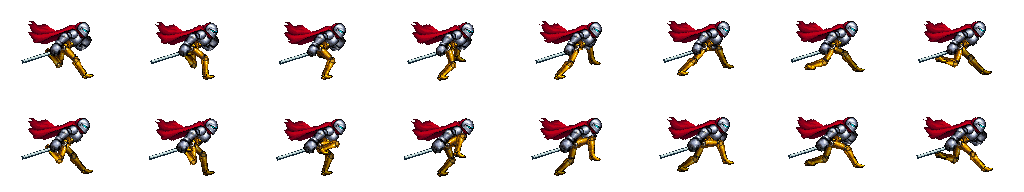
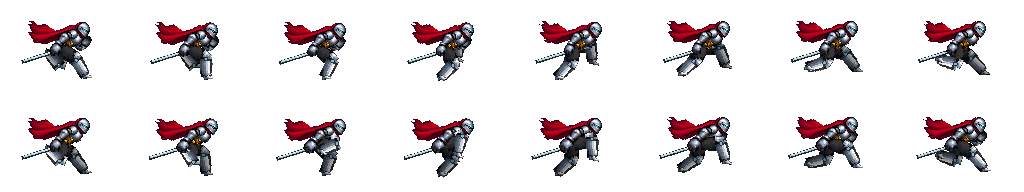
fix: share silver knight leg armor between idle and locomotion

diff --git a/art/characters/grounded-run-v001/sources/process.py b/art/characters/grounded-run-v001/sources/process.py
@@ -15,6 +15,15 @@ body=part([(294,91),(322,52),(369,46),(389,75),(396,114),(365,137),(353,166),(32
 thigh=part([(263,183),(285,185),(323,210),(347,227),(348,246),(329,252),(309,235),(269,216),(253,206)])
 shin=part([(325,242),(348,240),(357,267),(382,307),(374,323),(360,319),(340,287),(321,264)])
 boot=part([(361,310),(377,304),(386,308),(414,310),(427,309),(426,321),(402,332),(373,339),(357,329)])
+# Use the established silver idle armour for every locomotion leg, including idle.
+armor=Image.open(ROOT/'art/characters/prosthetic-v001/knight-idle.png').convert('RGBA').crop((0,0,128,96)).resize((512,384),Image.Resampling.NEAREST)
+def armor_part(points):
+ mask=Image.new('L',armor.size);ImageDraw.Draw(mask).polygon([(x*4,y*4) for x,y in points],fill=255)
+ piece=armor.copy();piece.putalpha(Image.fromarray(np.minimum(np.array(mask),np.array(armor.getchannel('A')))))
+ return piece
+thigh=armor_part([(69,56),(74,56),(76,62),(76,66),(70,66),(69,62)])
+shin=armor_part([(70,65),(76,65),(76,70),(75,75),(70,75),(70,70)])
+boot=armor_part([(70,74),(75,74),(77,76),(80,77),(80,79),(70,79)])
 upper=part([(253,130),(274,135),(279,149),(263,167),(253,182),(236,176),(233,167),(242,143)])
 fore=part([(236,169),(255,178),(244,200),(241,208),(226,212),(217,202),(220,188)])
 # Render transformed original armor cutouts into one offline atlas. No runtime rig or nodes.
@@ -38,27 +47,30 @@ def leg(im,hip,foot,front):
   k=(L1+L2-.1)/dist;foot=(hip[0]+dx*k,hip[1]+dy*k);dx*=k;dy*=k;dist*=k
  along=(L1*L1-L2*L2+dist*dist)/(2*dist);h=math.sqrt(max(0,L1*L1-along*along));knee=(hip[0]+dx*along/dist+dy*h/dist,hip[1]+dy*along/dist-dx*h/dist)
  shade=1 if front else .65
- place(im,thigh,(274,198),(337,238),hip,knee,shade)
- place(im,shin,(337,250),(371,314),knee,foot,shade)
+ place(im,thigh,(72*4,57*4),(73*4,65*4),hip,knee,shade)
+ place(im,shin,(73*4,66*4),(72.5*4,75*4),knee,foot,shade)
  # Heel follows the shin through the airborne recovery; sole remains flat on contact.
  lift=max(0,76-foot[1]);toe=(foot[0]+6,foot[1]+min(3,lift*.16))
- place(im,boot,(372,320),(407,319),foot,toe,shade)
+ place(im,boot,(72.5*4,76*4),(79*4,77*4),foot,toe,shade)
  # Small shared joint hides seams where the plates rotate.
  d=ImageDraw.Draw(im);x,y=[round(v*4) for v in knee]
- d.ellipse((x-9,y-9,x+9,y+9),fill='#50370f' if front else '#342c1b');d.ellipse((x-5,y-5,x+5,y+5),fill='#d99b25' if front else '#846223');d.point((x-2,y-3),fill='#fff3ab')
+ d.ellipse((x-9,y-9,x+9,y+9),fill='#25323e' if front else '#192630');d.ellipse((x-5,y-5,x+5,y+5),fill='#94b3c1' if front else '#566d7b');d.point((x-2,y-3),fill='#e4f3f3')
 def arm(im,shoulder,elbow,hand,front=True):
  place(im,upper,(263,142),(246,171),shoulder,elbow,1 if front else .65)
  place(im,fore,(246,178),(232,199),elbow,hand,1 if front else .65)
-for mode in ['run','sprint','walk']:
+for mode in ['run','sprint','walk','idle']:
  for armed in [False,True]:
-  frames=[];atlas=Image.new('RGBA',(1024,192))
-  for i in range(16):
-   t=i/16;im=Image.new('RGBA',(512,384))
+  count=4 if mode=='idle' else 16
+  columns=2 if mode=='idle' else 8
+  frames=[];atlas=Image.new('RGBA',(256,192) if mode=='idle' else (1024,192))
+  for i in range(count):
+   t=i/count;im=Image.new('RGBA',(512,384))
    bob=1.0*math.sin(t*math.tau*2)
    hip=(64,(48.5 if mode=='sprint' else 46.5)+bob);lean=3 if mode=='sprint' else 0
    keys=[(16,77),(3,77),(-15,77),(-20,72),(-16,64),(0,66),(13,69),(19,74)]
    if mode=='sprint':keys=[(21,76),(4,77),(-19,77),(-25,67),(-16,51),(0,54),(16,61),(24,69)]
    if mode=='walk':keys=[(10,77),(5,77),(0,77),(-6,77),(-10,77),(-6,75),(0,74),(7,75)];hip=(64,44+math.sin(t*math.tau*2)*.4)
+   if mode=='idle':hip=(64,44.0+math.sin(t*math.tau)*.35)
    def foot(p):
     x,y=smooth(keys,p);return (64+x,y)
    # Cape gets a traveling wave, while its attachment stays fixed at the shoulder.
@@ -68,22 +80,24 @@ for mode in ['run','sprint','walk']:
     cap.alpha_composite(cape.crop((x,0,x+4,384)),(x,wave))
    body_hip=(274,198);body_top=(296,111)
    target_top=(68+lean,hip[1]-16.5)
+   if mode=='idle':target_top=(63,hip[1]-16.5)
    place(im,cap,body_hip,body_top,hip,target_top)
-   leg(im,(hip[0]-2,hip[1]),foot(t+.5),False)
-   swing=math.cos(t*math.tau)
+   leg(im,(hip[0]-2,hip[1]),(57,77) if mode=='idle' else foot(t+.5),False)
+   swing=0 if mode=='idle' else math.cos(t*math.tau)
    arm(im,(70+lean,hip[1]-11),(71+lean+8*swing,hip[1]-2),(77+lean+7*swing,hip[1]-9),False)
    place(im,body,body_hip,body_top,hip,target_top)
-   leg(im,hip,foot(t),True)
+   leg(im,hip,(70,77) if mode=='idle' else foot(t),True)
    # Armed rear hand carries the blade; unarmed runner counter-swings both arms.
    shoulder=(63+lean,hip[1]-13)
    elbow=(59+(2 if armed else -7*swing),hip[1]-5)
    hand=(55+(2*math.sin(t*math.tau) if armed else -9*swing),hip[1]+3 if armed else hip[1]-2)
+   if mode=='idle':elbow=(64,hip[1]-5);hand=(68,hip[1]+4)
    if armed:
     d=ImageDraw.Draw(im);x,y=[v*4 for v in hand]
     d.line((x,y,x-132,y+42),fill='#142733',width=15);d.line((x,y,x-126,y+38),fill='#b5ced1',width=8);d.line((x,y-3,x-125,y+35),fill='#e5f4eb',width=3);d.line((x-8,y-12,x+4,y+12),fill='#c49c48',width=6)
    arm(im,shoulder,elbow,hand)
    cell=im.resize((128,96),Image.Resampling.NEAREST)
-   atlas.alpha_composite(cell,((i%8)*128,(i//8)*96));frames.append(cell)
+   atlas.alpha_composite(cell,((i%columns)*128,(i//columns)*96));frames.append(cell)
   name=mode+('-armed' if armed else '-unarmed');atlas.save(OUT/(name+'.png'))
   if os.environ.get("ART_PREVIEWS")=="1":
    preview=Image.new('RGBA',atlas.size,'#17262c');preview.alpha_composite(atlas);preview.save(OUT/'sources'/(name+'-contact.png'))

diff --git a/docs/lessons/72-exported-lighting-and-shared-armor.md b/docs/lessons/72-exported-lighting-and-shared-armor.md
@@ -1,0 +1,9 @@
+# 72：匯出後的光照與共用腿甲
+
+這次黑畫面不是夜晚太暗，而是日夜與場景氛圍的 Resource 在發布包中變成空值。原先用腳本 `.new()` 建立 Inspector 屬性的預設物件，在本機專案可以用，但實際匯出包沒有保留。現在改成明確的 `.tres` 檔案，讓匯出器能追蹤依賴。
+
+在 Godot 的 FileSystem 點開 `data/daylight_style.tres`，Inspector 可以調整 Daylight、Dawn Light、Night Light；`data/world_ambience.tres` 則控制水面、斜光與騎士燈光。顏色預設值仍集中在對應腳本，沒有複製第二套數值。改完務必檢查真正匯出的遊戲，不能只看 F6。
+
+腿甲不一致是待機與移動沿用不同來源。現在持劍／空手的待機、跑步、衝刺及慢走，都以同一套銀色大腿甲、脛甲、靴子離線產出；檔案位於 `art/characters/grounded-run-v001/`。動畫的姿勢可以不同，但裝甲造型與比例應維持一致。
+
+H5 打包流程增加 `tools/test_exported_ambience.gd`，直接載入 `.pck` 檢查場景設定與日夜光照；舊版 v0.0.8 的包可重現失敗，修正包通過。這項檢查仍須搭配瀏覽器目視驗收。

diff --git a/art/characters/grounded-run-v001/README.md b/art/characters/grounded-run-v001/README.md
@@ -7,3 +7,5 @@ Six transparent 1024×192 atlases, each 16 frames in 8 columns; cells 128×96, f
 Rebuild with Pillow + NumPy: `python3 sources/process.py`. Set `ART_PREVIEWS=1` for optional contact sheets/GIFs under `sources/`; previews are excluded from game exports. Run/sprint playback defaults: 32/48 fps; tired walk: 20 fps. The runtime blends cadence rather than restarting the cycle when speed changes.
 
 September 22 refinement: raise the hip and extend the support leg; reduce normal-run heel recovery and tired-walk foot lift. Armed/unarmed variants share these paths. The source drawing and deterministic rebuild script remain intact.
+
+Armour consistency repair: thigh, shin and boot cutouts now come from the established silver `../prosthetic-v001/knight-idle.png`. The same leg pieces and joints drive all six movement sheets plus two four-frame idle sheets (256×192, 2 columns). Idle has a straighter stance, subtle breathing and a moving cape. Armed idle uses the existing scene texture override, preserving editable frame timings; unarmed idle uses the matching sheet. Gold mechanical hands remain part of the source torso artwork.
